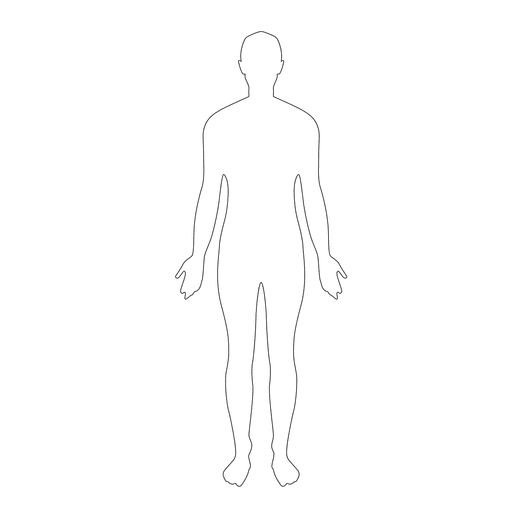
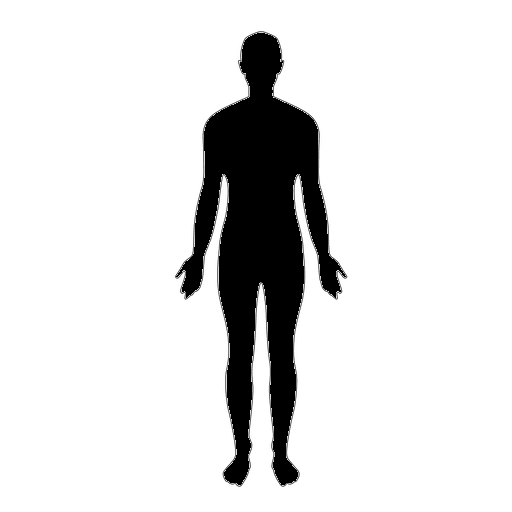
Water section completed, started food section layout

Changed region(s): [[0.3438, 0.0625, 0.6875, 0.9688]]

diff --git a/assets/style.css b/assets/style.css
@@ -75,7 +75,7 @@ main {
     gap: 10px;
 }
 
-#water h2 {
+.title-h2 {
     font-weight: 600;
     font-size: 1.5rem;
 }
@@ -109,9 +109,38 @@ main {
     padding: 15px 0 0;
 }
 
-#visual-progress img {
-    height: 280px; 
-    margin: 0;
+#visual-progress {
+    position: relative;
+    width: 250px;
+    height: 250px; 
+    margin: 0 auto; 
+    overflow: hidden; 
+}
+
+#body-container-clip {
+    position: relative;
+    width: 100%;
+    height: 100%;
+    overflow: hidden; 
+    
+    -webkit-mask-image: url('img/corpo-humano.png');
+    mask-image: url('img/corpo-humano.png');
+    
+    mask-size: 100% 100%;
+    mask-position: bottom;
+    mask-repeat: no-repeat;
+}
+
+#body-water-fill {
+    position: absolute;
+    bottom: 0;
+    left: 0;
+    width: 100%;
+    height: 100%;
+    background-color: #006aac;
+    
+    transform: translateY(100%);
+    transition: transform 0.5s ease-out;
 }
 
 #textual-progress {
@@ -143,8 +172,10 @@ main {
 }
 
 #waterHistoryList {
+    border: 1px solid rgba(0, 0, 0, 0.6);
     overflow-y: scroll;
-    max-height: 60px;
+    max-height: 65px;
+    margin-right: 44px;
 }
 
 #ml-div {
@@ -164,4 +195,78 @@ main {
     input:focus {
         outline: 0;
     }
+}
+
+#food {
+    background-color: #212226;
+    padding: 25px 0px;
+    display: flex;
+    flex-flow: column;
+    align-items: center;
+
+    h2 {
+        color: white;
+        font-weight: 500;
+    }
+}
+
+#daily-containers {
+    display: flex;
+    gap: 20px;
+    margin-bottom: 20px;
+}
+
+.food-container {
+    margin-top: 30px;
+    background-color: #28292D;
+    height: 100px;
+    width: 150px;
+    border-radius: 8px;
+}
+
+.food-inputs {
+    background: none;
+    outline: none;
+    border: 0.5px solid #3f3f3f;
+    border-radius: 8px;
+    padding: 8px 10px;
+    margin-bottom: 20px;
+}
+
+#food-search-input {
+    width: 320px;
+}
+
+#food-number-input {
+    width: 280px;
+}
+
+#food-number-container {
+    display: flex;
+    justify-content: center;
+    align-items: flex-start;
+    gap: 10px;
+}
+
+#food-number-container button {
+    border-radius: 8px;
+    outline: none;
+    border: 0.5px solid #3f3f3f;
+    font-size: 1.1rem;
+    padding: 5px 10px;
+    background: none;
+    color: white;
+    cursor: pointer;
+}
+
+#food-register {
+    background-color: #6AD88F;
+    outline: none;
+    padding: 10px;
+    border: none;
+    border-radius: 8px;
+    width: 320px;
+    font-size: 1rem;
+    font-weight: 500;
+    cursor: pointer;
 }

diff --git a/js/script.js b/js/script.js
@@ -19,6 +19,8 @@ const metaAguaSpan = document.getElementById("meta-agua");
 
 const logoutBtn = document.getElementById("logout-btn");
 
+const bodyWaterFill = document.getElementById("body-water-fill");
+
 // Definição dos usuários por padrão
 const defaultUsers = [
     { username: "mateustoledo", password: "1111", idade: 24, peso: 74, waterHistory: [] },
@@ -92,6 +94,17 @@ if (loginBtn) {
     loginBtn.addEventListener('click', verificarLogin);
 }
 
+// função botão logout
+function handleLogout() {
+ 
+    localStorage.removeItem('currentUserUsername');
+    window.location.href = 'login.html';
+}
+
+if (logoutBtn) {
+    logoutBtn.addEventListener('click', handleLogout);
+}
+
 // Função de atualização da meta diária e total ingerido
 function updateWaterProgress() {
 
@@ -104,6 +117,15 @@ function updateWaterProgress() {
 
     totalAguaSpan.textContent = `${totalIngerido}ml`;
     metaAguaSpan.textContent = `${meta}ml`;
+
+    // Definição do preenchimento do corpo humano conforme ingestão de água
+    let percentage = (totalIngerido / meta) * 100;
+    if (percentage > 100) {
+        percentage = 100;
+    }
+    
+    const transformValue = 100 - percentage; 
+    bodyWaterFill.style.transform = `translateY(${transformValue}%)`;
 }
 
 // Função de cálculo da meta diária
@@ -214,15 +236,4 @@ if (registerBtn && currentUser) {
     
     renderWaterHistory();
     updateWaterProgress();
-}
-
-// função botão logout
-function handleLogout() {
- 
-    localStorage.removeItem('currentUserUsername');
-    window.location.href = 'login.html';
-}
-
-if (logoutBtn) {
-    logoutBtn.addEventListener('click', handleLogout);
 }

diff --git a/index.html b/index.html
@@ -15,10 +15,12 @@
     </header>
     <main>
         <div id="water" class="container">
-            <h2>Controle de Água</h2>
+            <h2 class="title-h2">Controle de Água</h2>
             <div id="water-progress">
                 <div id="visual-progress">
-                    <img src="assets/img/corpo-humano.png" alt="">
+                    <div id="body-container-clip"> 
+                        <div id="body-water-fill"></div>
+                    </div>
                 </div>
                 <div id="textual-progress">
                     <p>Total Ingerido: <span id="total-agua">0ml</span></p>
@@ -41,7 +43,24 @@
             </div>
         </div>
         <div id="food" class="container">
-            
+            <h2 class="title-h2">Controle de Calorias</h2>
+            <div id="daily-containers">
+                <div id="daily-food" class="food-container">
+
+                </div>
+                <div id="total-food" class="food-container">
+
+                </div>
+            </div>
+            <input type="text" name="" id="food-search-input" class="food-inputs" placeholder="🔍  Buscar Alimento...">
+            <div id="food-suggestions-list">
+
+            </div>
+            <div id="food-number-container">
+                <input type="number" name="" id="food-number-input" class="food-inputs" placeholder="Insira a Quantidade">
+                <button>+</button>
+            </div>
+            <button id="food-register">Registrar Refeição</button>
         </div>
     </main>
     <script src="js/script.js"></script>
